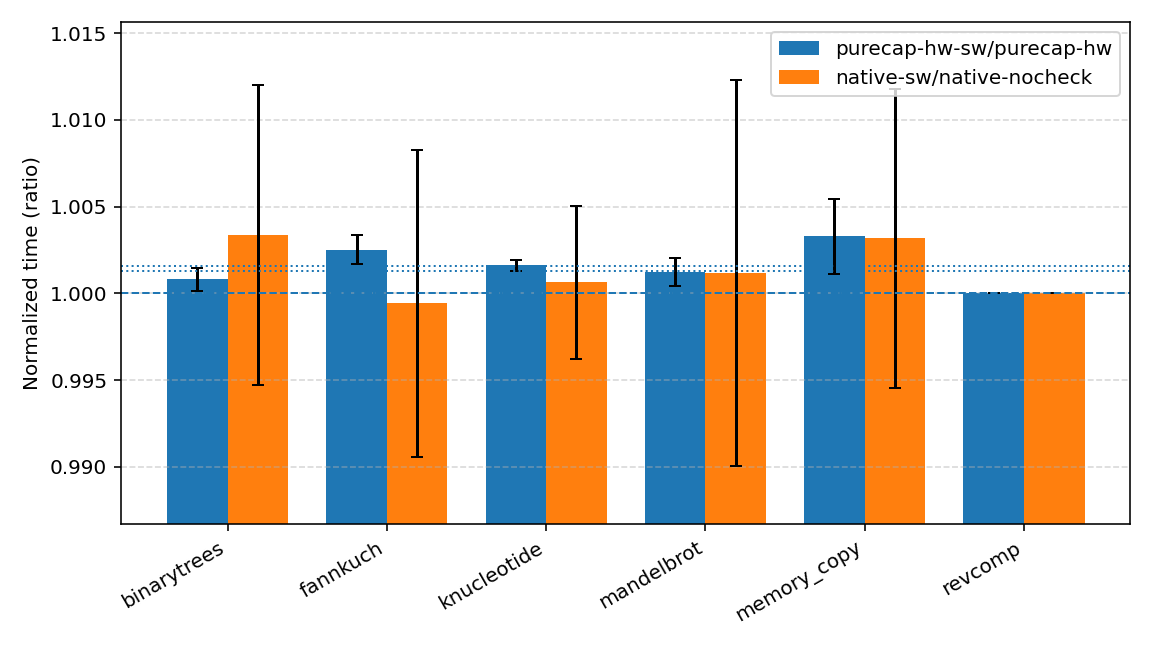
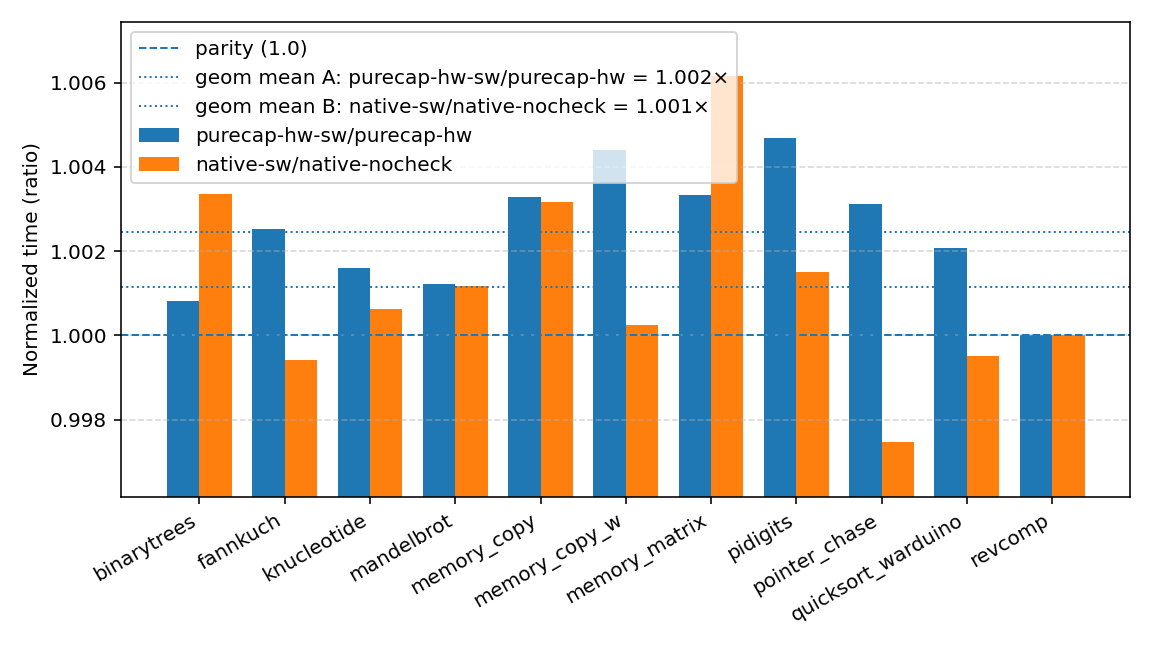
Add sum2

diff --git a/bcscripts/norm.py b/bcscripts/norm.py
@@ -1,23 +1,21 @@
 # bcscripts/norm_pairs_chart.py
 #!/usr/bin/env python3
 """
-Two-bar normalization per benchmark from results_stats.csv.
+Two-bar normalization per benchmark from results_stats.csv (no error bars).
 
 Bars:
   A) purecap-hw-sw / purecap-hw
   B) native-sw    / native-nocheck
 
-Notes:
-- Strips trailing ".wasm" from benchmark names in the x-axis labels.
-- Keeps the two geom-mean print lines exactly as requested.
-
-Zoom controls:
+Options:
   --ymin/--ymax     Explicit y-axis limits.
-  --pad FLOAT       Extra headroom for auto y-limits (default: 0.15; includes error bars).
-  --around-one      Zoom around 1.0 using max deviation of (ratio ± err).
+  --pad FLOAT       Headroom for auto y-limits (default: 0.15).
+  --around-one      Zoom around 1.0 using max deviation of ratios.
 
 Input : results_stats.csv  (Benchmark,Build,N,Mean(s),StdDev(s),Min(s),Max(s))
 Output: norm_pairs.png
+
+Note: Strips trailing ".wasm" from benchmark labels.
 """
 
 import csv, math, os, sys, argparse
@@ -25,15 +23,15 @@ from typing import Dict, Tuple, List
 
 IN_CSV  = os.environ.get("RESULTS_STATS", "results_stats.csv")
 OUT_PNG = os.environ.get("RESULTS_PNG", "norm_pairs.png")
-# TITLE   = os.environ.get("RESULTS_TITLE", "Normalization: two bars per benchmark")
 
-# Build keys
 NUM_A, DEN_A = "purecap-hw-sw", "purecap-hw"
 NUM_B, DEN_B = "native-sw", "native-nocheck"
 
 def f2f(x: str) -> float:
-    try: return float(x)
-    except Exception: return float("nan")
+    try:
+        return float(x)
+    except Exception:
+        return float("nan")
 
 def load_stats(path: str) -> Dict[str, Dict[str, Tuple[int, float, float]]]:
     if not os.path.exists(path):
@@ -53,31 +51,27 @@ def load_stats(path: str) -> Dict[str, Dict[str, Tuple[int, float, float]]]:
             out.setdefault(bm, {})[bld] = (n, mu, sd)
     return out
 
-def ratio_and_sigma(num, den) -> Tuple[float, float]:
-    nN, muN, sdN = num
-    nD, muD, sdD = den
+def ratio(num, den) -> float:
+    _, muN, _ = num
+    _, muD, _ = den
     if math.isnan(muN) or math.isnan(muD) or muD <= 0.0:
-        return float("nan"), float("nan")
-    r = muN / muD
-    if any((math.isnan(sdN), math.isnan(sdD), muN <= 0.0, muD <= 0.0, nN < 2, nD < 2)):
-        return r, 0.0
-    rel = (sdN / muN) ** 2 + (sdD / muD) ** 2
-    return r, r * math.sqrt(rel)
+        return float("nan")
+    return muN / muD
 
 def geom_mean(xs: List[float]) -> float:
     xs = [x for x in xs if x > 0 and not math.isnan(x)]
-    if not xs: return float("nan")
+    if not xs:
+        return float("nan")
     return math.exp(sum(math.log(x) for x in xs) / len(xs))
 
 def parse_args():
-    p = argparse.ArgumentParser(description="Plot two normalized bars per benchmark.")
+    p = argparse.ArgumentParser(description="Plot two normalized bars per benchmark (no error bars).")
     p.add_argument("--in",   dest="in_csv",  default=IN_CSV)
     p.add_argument("--png",  dest="out_png", default=OUT_PNG)
-#    p.add_argument("--title", default=TITLE)
     p.add_argument("--ymin", type=float, default=None)
     p.add_argument("--ymax", type=float, default=None)
     p.add_argument("--pad",  type=float, default=0.15, help="Headroom fraction for auto y-limits.")
-    p.add_argument("--around-one", action="store_true", help="Zoom around 1.0 using (ratio±err).")
+    p.add_argument("--around-one", action="store_true", help="Zoom around 1.0 using max deviation of ratios.")
     return p.parse_args()
 
 def main():
@@ -85,8 +79,8 @@ def main():
     stats = load_stats(args.in_csv)
 
     labels: List[str] = []
-    ratioA: List[float] = []; errA: List[float] = []
-    ratioB: List[float] = []; errB: List[float] = []
+    ratioA: List[float] = []
+    ratioB: List[float] = []
 
     for bm, builds in sorted(stats.items()):
         if NUM_A not in builds or DEN_A not in builds:
@@ -94,15 +88,15 @@ def main():
         if NUM_B not in builds or DEN_B not in builds:
             continue
 
-        rA, eA = ratio_and_sigma(builds[NUM_A], builds[DEN_A])
-        rB, eB = ratio_and_sigma(builds[NUM_B], builds[DEN_B])
+        rA = ratio(builds[NUM_A], builds[DEN_A])
+        rB = ratio(builds[NUM_B], builds[DEN_B])
         if math.isnan(rA) or math.isnan(rB):
             continue
 
-        label = bm[:-5] if bm.endswith(".wasm") else bm  # strip .wasm
+        label = bm[:-5] if bm.endswith(".wasm") else bm
         labels.append(label)
-        ratioA.append(rA); errA.append(eA)
-        ratioB.append(rB); errB.append(eB)
+        ratioA.append(rA)
+        ratioB.append(rB)
 
     if not labels:
         sys.exit("No benchmarks with both pairs available.")
@@ -122,20 +116,20 @@ def main():
     bar_w = 0.38
     fig, ax = plt.subplots(figsize=(max(8, 0.5 * len(labels)), 4.5))
 
-    # Two bars per benchmark
-    ax.bar([i - bar_w/2 for i in x], ratioA, yerr=errA, width=bar_w, capsize=3, label=f"{NUM_A}/{DEN_A}")
-    ax.bar([i + bar_w/2 for i in x], ratioB, yerr=errB, width=bar_w, capsize=3, label=f"{NUM_B}/{DEN_B}")
+    # Two bars per benchmark (no yerr)
+    ax.bar([i - bar_w/2 for i in x], ratioA, width=bar_w, label=f"{NUM_A}/{DEN_A}")
+    ax.bar([i + bar_w/2 for i in x], ratioB, width=bar_w, label=f"{NUM_B}/{DEN_B}")
 
-    # Y-limits include error bars, with padding
-    lows  = [r - e for r, e in zip(ratioA, errA)] + [r - e for r, e in zip(ratioB, errB)]
-    highs = [r + e for r, e in zip(ratioA, errA)] + [r + e for r, e in zip(ratioB, errB)]
-    finite_lows  = [v for v in lows  if not math.isnan(v)]
-    finite_highs = [v for v in highs if not math.isnan(v)]
-
+    # Y-limits from ratios only, with padding
+    all_y = [v for v in (ratioA + ratioB) if not math.isnan(v)]
     if args.ymin is not None and args.ymax is not None:
         ymin, ymax = args.ymin, args.ymax
-    elif finite_lows and finite_highs:
-        lo, hi = min(finite_lows), max(finite_highs)
+    elif args.around_one and all_y:
+        dev = max(abs(v - 1.0) for v in all_y) or 0.05
+        ymin = 1.0 - dev * (1 + args.pad)
+        ymax = 1.0 + dev * (1 + args.pad)
+    elif all_y:
+        lo, hi = min(all_y), max(all_y)
         span = max(1e-6, hi - lo)
         ymin = lo - args.pad * span
         ymax = hi + args.pad * span
@@ -143,13 +137,16 @@ def main():
         ymin, ymax = 0.8, 1.2
     ax.set_ylim(ymin, ymax)
 
-    ax.axhline(1.0, linestyle="--", linewidth=1)
+    ax.axhline(1.0, linestyle="--", linewidth=1, label="parity (1.0)")
     gA = geom_mean(ratioA); gB = geom_mean(ratioB)
-    if not math.isnan(gA): ax.axhline(gA, linestyle=":", linewidth=1)
-    if not math.isnan(gB): ax.axhline(gB, linestyle=":", linewidth=1)
+    if not math.isnan(gA):
+        ax.axhline(gA, linestyle=":", linewidth=1,
+                   label=f"geom mean A: {NUM_A}/{DEN_A} = {gA:.4g}×")
+    if not math.isnan(gB):
+        ax.axhline(gB, linestyle=":", linewidth=1,
+                   label=f"geom mean B: {NUM_B}/{DEN_B} = {gB:.4g}×")
 
     ax.set_ylabel("Normalized time (ratio)")
-#    ax.set_title(args.title)
     ax.set_xticks(x)
     ax.set_xticklabels(labels, rotation=30, ha="right")
     ax.grid(axis="y", linestyle="--", alpha=0.5)

diff --git a/bcscripts/time_chart.py b/bcscripts/time_chart.py
@@ -42,13 +42,17 @@ def load_matrix(path):
         data.append(row)
     return builds, data
 
+def clean_label(name: str) -> str:
+    base = os.path.basename(name)
+    return base[:-5] if base.endswith(".wasm") else base  # why: cleaner x-axis
+
 def main():
     if not os.path.exists(CSV_IN):
         sys.exit(f"Missing CSV: {CSV_IN}")
     builds, data = load_matrix(CSV_IN)
-    benchmarks = [row["Benchmark"] for row in data]
+    benchmarks_raw = [row["Benchmark"] for row in data]
+    benchmarks = [clean_label(bm) for bm in benchmarks_raw]
 
-    # Compute per-benchmark stats per build
     means = {b: [] for b in builds}
     stds  = {b: [] for b in builds}
     counts= {b: [] for b in builds}
@@ -57,13 +61,11 @@ def main():
             m, s, n = mean_std(parse_cell(row.get(b, "")))
             means[b].append(m); stds[b].append(s); counts[b].append(n)
 
-    # Try to plot; if matplotlib missing, print summary
     try:
         import matplotlib.pyplot as plt
     except Exception:
         print("matplotlib not available. Summary:")
         for b in builds:
-            # overall mean across benchmarks (ignoring NaN)
             vals = [v for v in means[b] if not math.isnan(v)]
             overall = sum(vals) / len(vals) if vals else math.nan
             print(f"{b:>16}: mean={overall if not math.isnan(overall) else 'nan'} (n_bench={len(vals)})")
@@ -79,7 +81,6 @@ def main():
         bar_x = [xi + offsets[i] for xi in x]
         y     = means[b]
         yerr  = [0 if math.isnan(s) else s for s in stds[b]]
-        # mask NaNs to avoid plotting as zeros
         bx = [bx for bx, yy in zip(bar_x, y) if not math.isnan(yy)]
         by = [yy for yy in y if not math.isnan(yy)]
         be = [ee for yy, ee in zip(y, yerr) if not math.isnan(yy)]

diff --git a/src/Primitives/emulated.cpp b/src/Primitives/emulated.cpp
@@ -27,7 +27,7 @@
 #include "primitives.h"
 
 #define NUM_PRIMITIVES 0
-#define NUM_PRIMITIVES_ARDUINO 29
+#define NUM_PRIMITIVES_ARDUINO 30 // was 27
 
 #define ALL_PRIMITIVES (NUM_PRIMITIVES + NUM_PRIMITIVES_ARDUINO)
 
@@ -293,6 +293,15 @@ def_prim(print_string, twoToNoneU32) {
     fwrite(data, 1, size, stdout);
     fflush(stdout);
 
+    pop_args(2);
+    return true;
+}
+
+def_prim(warduino_sum2, twoToNoneU32) {
+    uint32_t a = arg0.uint32;
+    uint32_t b = arg1.uint32;
+    printf("%u\n", a + b);
+    fflush(stdout);
     pop_args(2);
     return true;
 }
@@ -574,6 +583,7 @@ void install_primitives() {
 
     install_primitive(print_int);
     install_primitive(print_string);
+    install_primitive(warduino_sum2);
 
     install_primitive(wifi_connect);
     install_primitive(wifi_status);

diff --git a/tutorials/rust/lib/warduino/src/lib.rs b/tutorials/rust/lib/warduino/src/lib.rs
@@ -184,6 +184,9 @@ pub fn print(text: &str) { unsafe { _print_buffer(text.as_ptr(), text.len()) } }
 /// Print an integer to the serial port.
 pub fn print_int(integer: i32) { unsafe { _print_int(integer) } }
 
+/// Call the warduino_sum2 primitive.
+pub fn sum2(a: i32, b: i32) -> i32 { unsafe { _warduino_sum2(a, b) } }
+
 /// subscribe a callback function to an interrupt on the given pin
 pub fn sub_interrupt(pin: u32, mode: InterruptMode, f: fn(&str, &str, u32)) { unsafe { _sub_interrupt(pin, f, mode as u32) } }
 

diff --git a/tutorials/rust/lib/warduino/src/linking.rs b/tutorials/rust/lib/warduino/src/linking.rs
@@ -25,6 +25,8 @@ extern {
     pub fn _print_buffer(text: *const u8, length: usize);
     #[link_name = "print_int"]
     pub fn _print_int(integer: i32);
+    #[link_name = "warduino_sum2"]
+    pub fn _warduino_sum2(a: i32, b: i32) -> i32;
 
     // Wi-Fi
     #[link_name = "wifi_connect"]

diff --git a/src/Primitives/arduino.cpp b/src/Primitives/arduino.cpp
@@ -372,7 +372,6 @@ def_prim(print_string, twoToNoneU32) {
     return true;
 }
 
-
 def_prim(wifi_connect, fourToNoneU32) {
     uint32_t ssid = arg3.uint32;
     uint32_t len0 = arg2.uint32;
